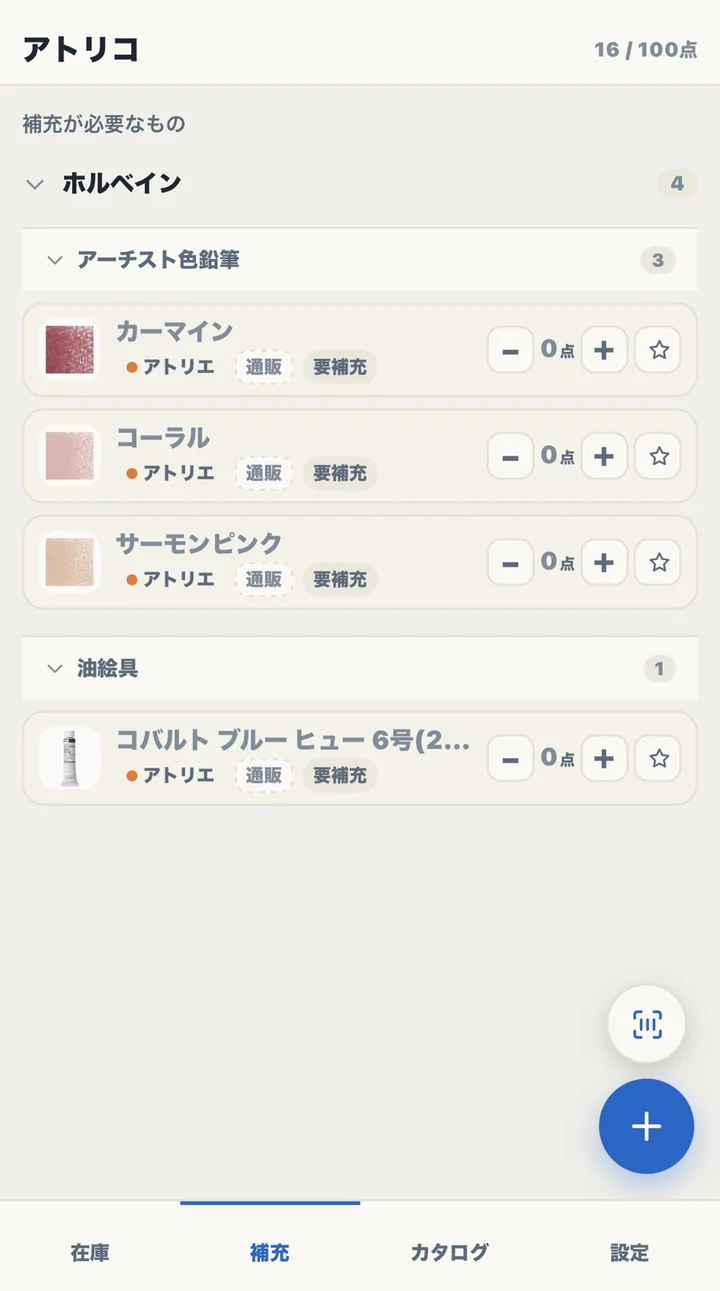
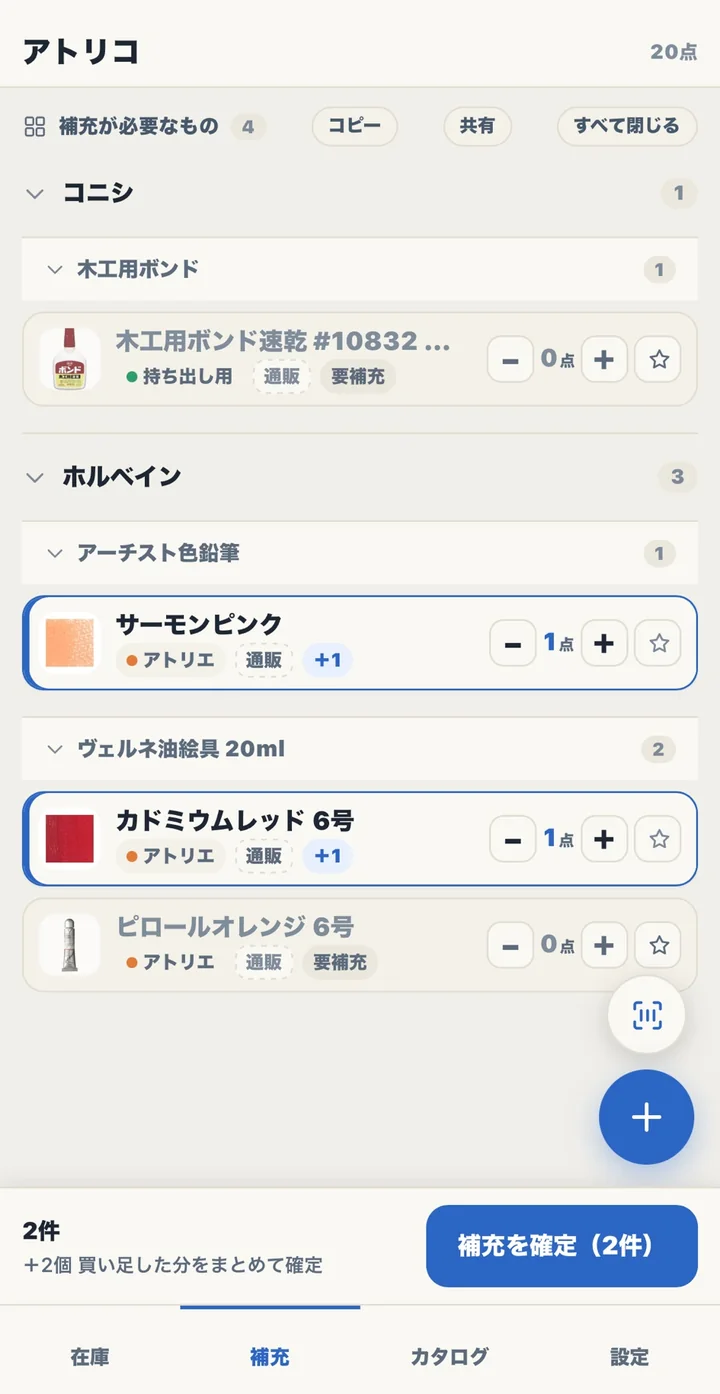
feat: チュートリアルの画面写真7枚を最新版に差し替え、説明文を更新（v1.39.0）
- 在庫3・補充1・カタログ2・設定1の7枚を、いまの画面の撮り直しに差し替え
  （ステータスバーを切り、720×1394のWebPに。1枚100KB未満）
- 補充は「＋で買い足した分を、補充を確定でまとめて十分に」する動きに合わせる
- カタログは38,140件とお気に入りメーカー、設定は画材費・iCloudバックアップまで案内
- 写真の実寸とw/hの一致、説明文と画面の一致をテストで固定
- SWキャッシュ v61 / v1.39.0

diff --git a/index.html b/index.html
@@ -15,7 +15,7 @@ try {
 } catch (e) { /* 保存が読めないときはライト */ }
 </script>
 <link rel="manifest" href="manifest.webmanifest">
-<link rel="stylesheet" href="styles.css?v=1.38.0">
+<link rel="stylesheet" href="styles.css?v=1.39.0">
 <link rel="icon" href="icon.svg" type="image/svg+xml">
 <link rel="apple-touch-icon" href="apple-touch-icon.png">
 </head>
@@ -689,7 +689,7 @@ try {
 
 <div class="toast" id="toast" role="status" aria-live="polite"></div>
 <!-- 動きのライブラリは同梱（CDNから読まない）。app.js より先に読んで window.gsap を用意する -->
-<script src="vendor/gsap.min.js?v=1.38.0"></script>
-<script type="module" src="app.js?v=1.38.0"></script>
+<script src="vendor/gsap.min.js?v=1.39.0"></script>
+<script type="module" src="app.js?v=1.39.0"></script>
 </body>
 </html>

diff --git a/tests/theme.test.js b/tests/theme.test.js
@@ -204,7 +204,7 @@ test('画面: 設定にテーマ切替、描画前のテーマ適用、theme-col
 test('theme.js は配信・iOSビルド・Service Worker に入っている', async () => {
   const sw = read('sw.js');
   assert.match(sw, /'\.\/theme\.js'/);
-  assert.match(sw, /art-supply-manager-v60/);
+  assert.match(sw, /art-supply-manager-v61/);
   const { WEB_ASSETS } = await import('../scripts/build.mjs');
   assert.ok(WEB_ASSETS.includes('theme.js'), 'theme.js が WEB_ASSETS にありません');
   // iOSビルドの起動条件は app.js / index.html / styles.css の変更で走る（theme.js は build.mjs 経由で www/ へ入る）

diff --git a/tests/export-file.test.js b/tests/export-file.test.js
@@ -255,7 +255,7 @@ test('export-file.js は配布物とService Workerのキャッシュに入って
   assert.ok(fs.existsSync(path.join(ROOT, 'export-file.js')));
   assert.match(read('sw.js'), /'\.\/export-file\.js'/);
   // 新しいJSを確実に届けるためキャッシュ名も上げる
-  assert.match(read('sw.js'), /art-supply-manager-v60/);
+  assert.match(read('sw.js'), /art-supply-manager-v61/);
   // Falls back to 404 を避ける: index.html が読む版と package.json が一致
   const pkg = JSON.parse(read('package.json'));
   assert.match(read('index.html'), new RegExp(`app\\.js\\?v=${pkg.version.replace(/\./g, '\\.')}`));

diff --git a/sw.js b/sw.js
@@ -1,5 +1,5 @@
 // アトリコ Service Worker（オフライン用キャッシュ）
-const CACHE = 'art-supply-manager-v60';
+const CACHE = 'art-supply-manager-v61';
 const ASSETS = [
   './', './index.html', './privacy.html', './terms.html', './support.html',
   './styles.css', './app.js', './core.js', './motion.js', './icloud.js', './links.js', './images.js', './pro.js', './iap.js', './samples.js', './theme.js', './tutorial.js', './jan-database.js', './jan-extra.js',
